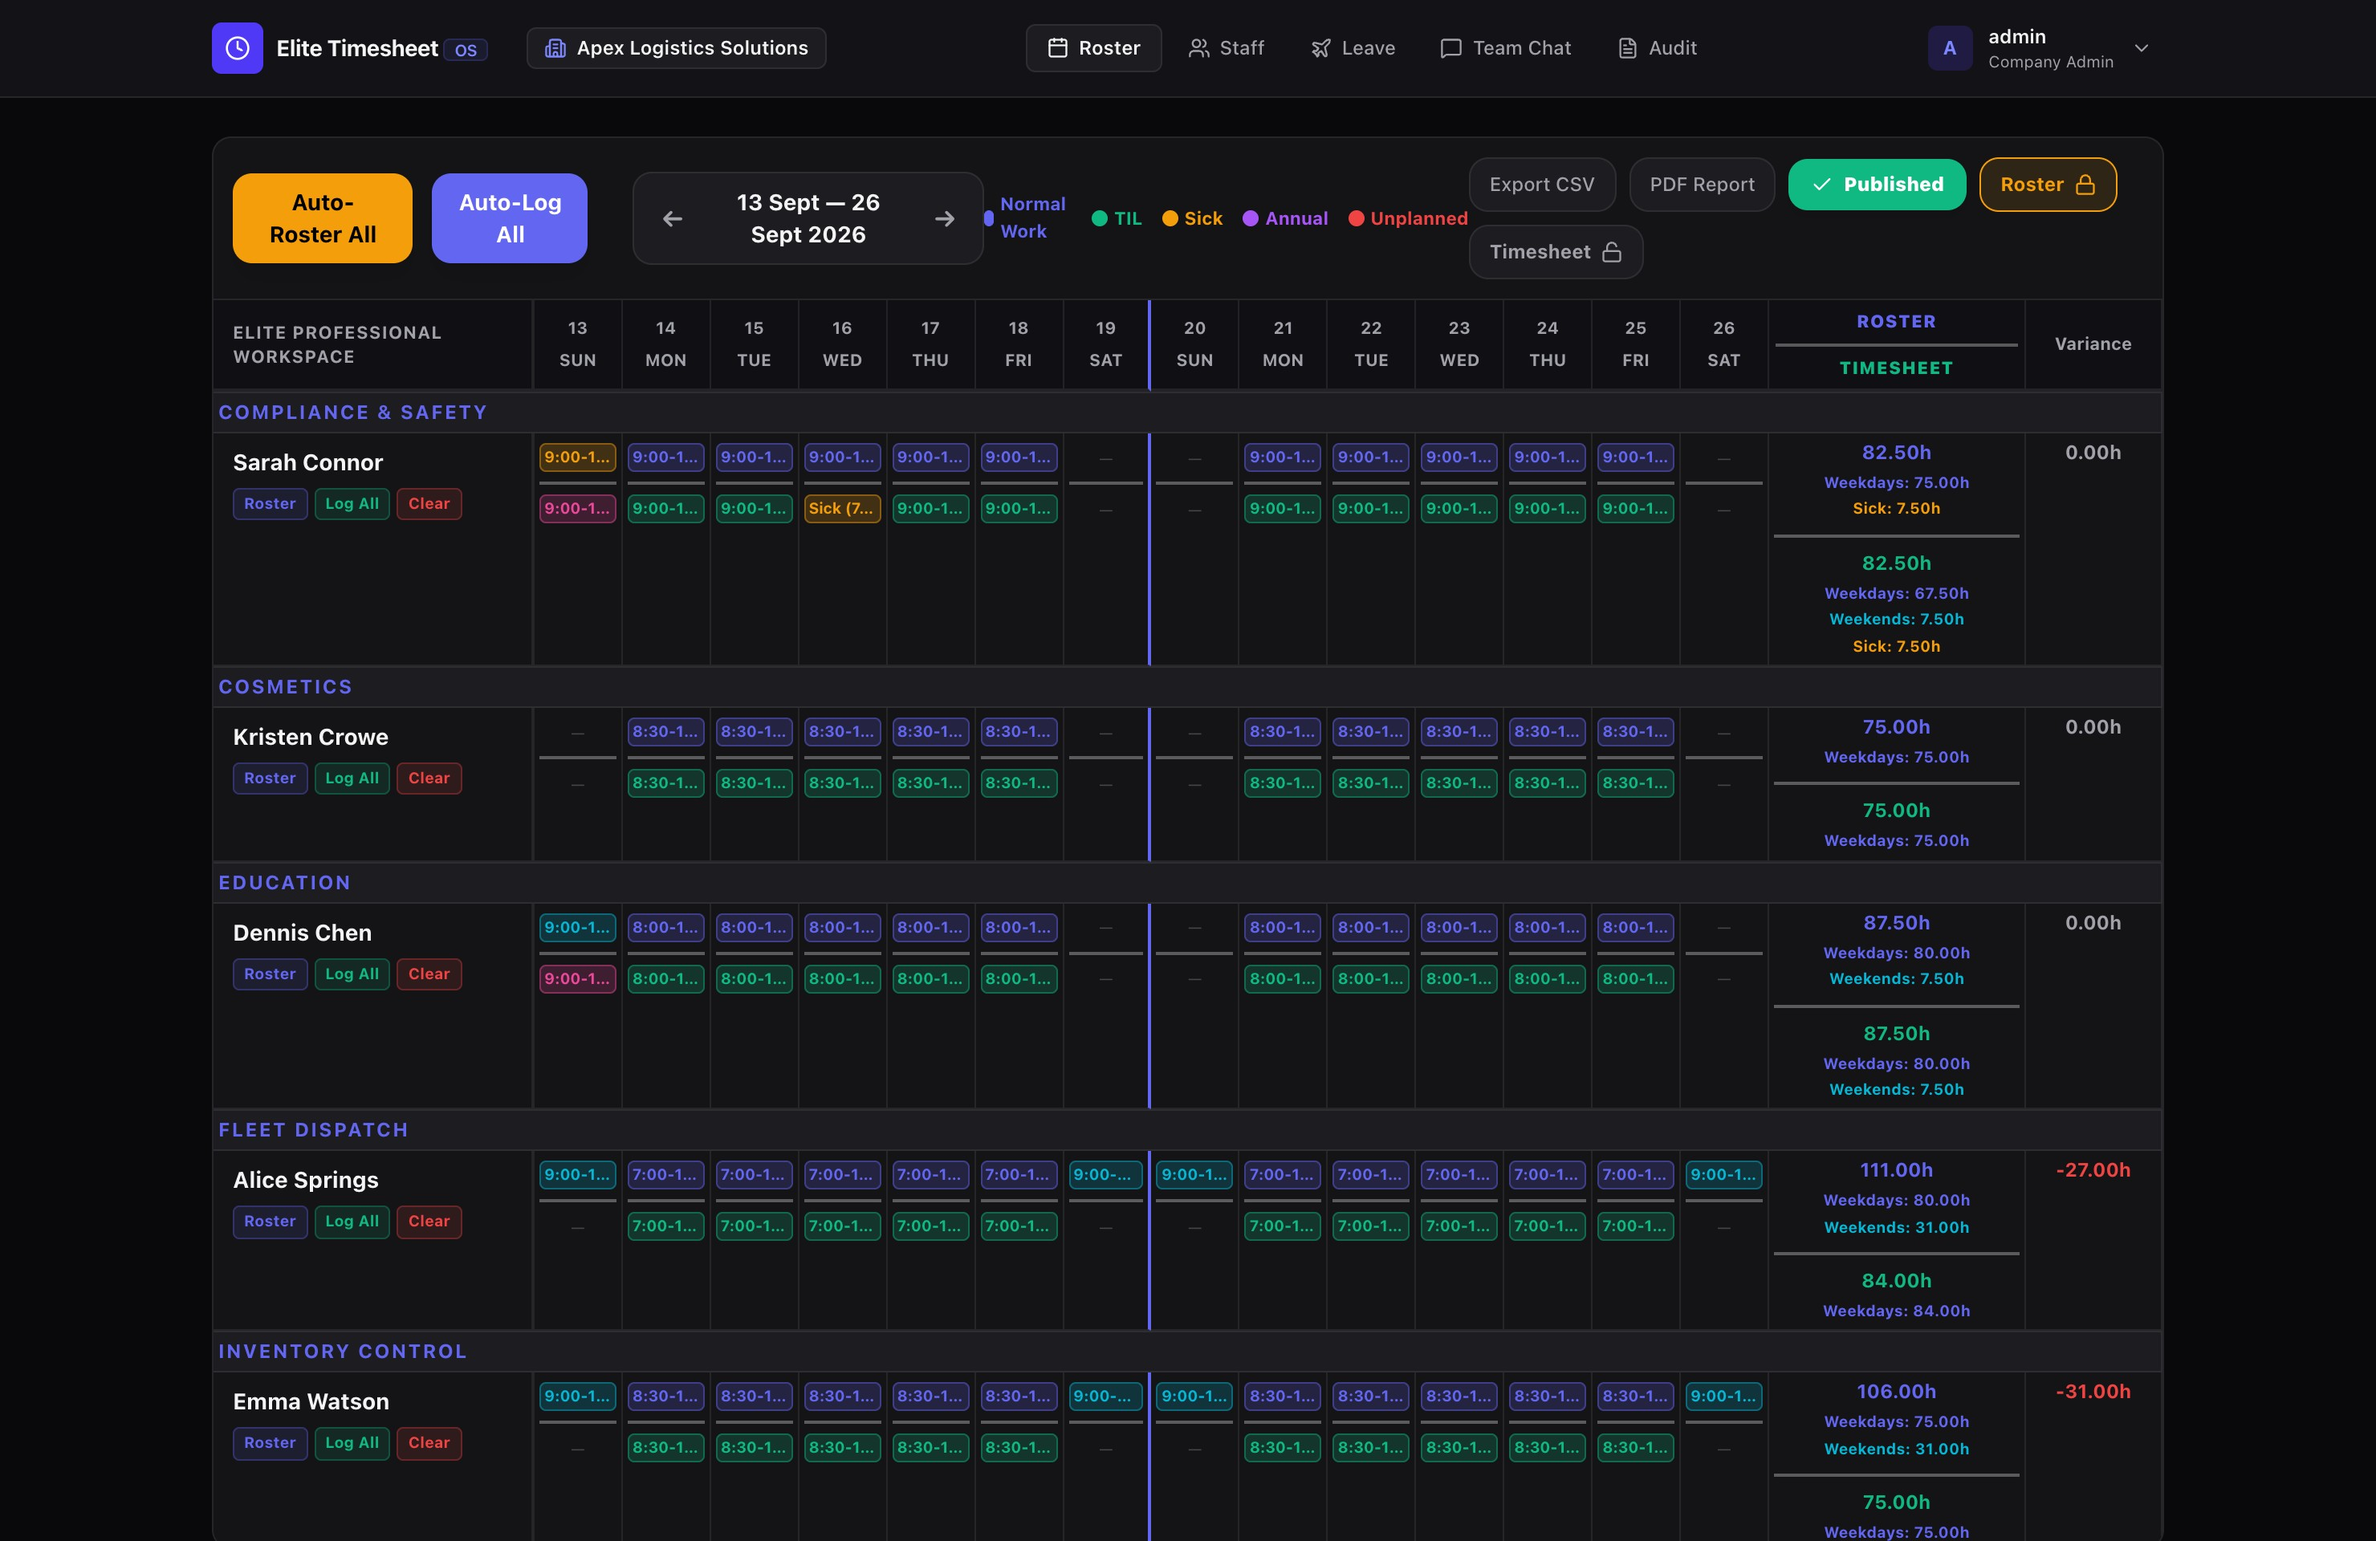
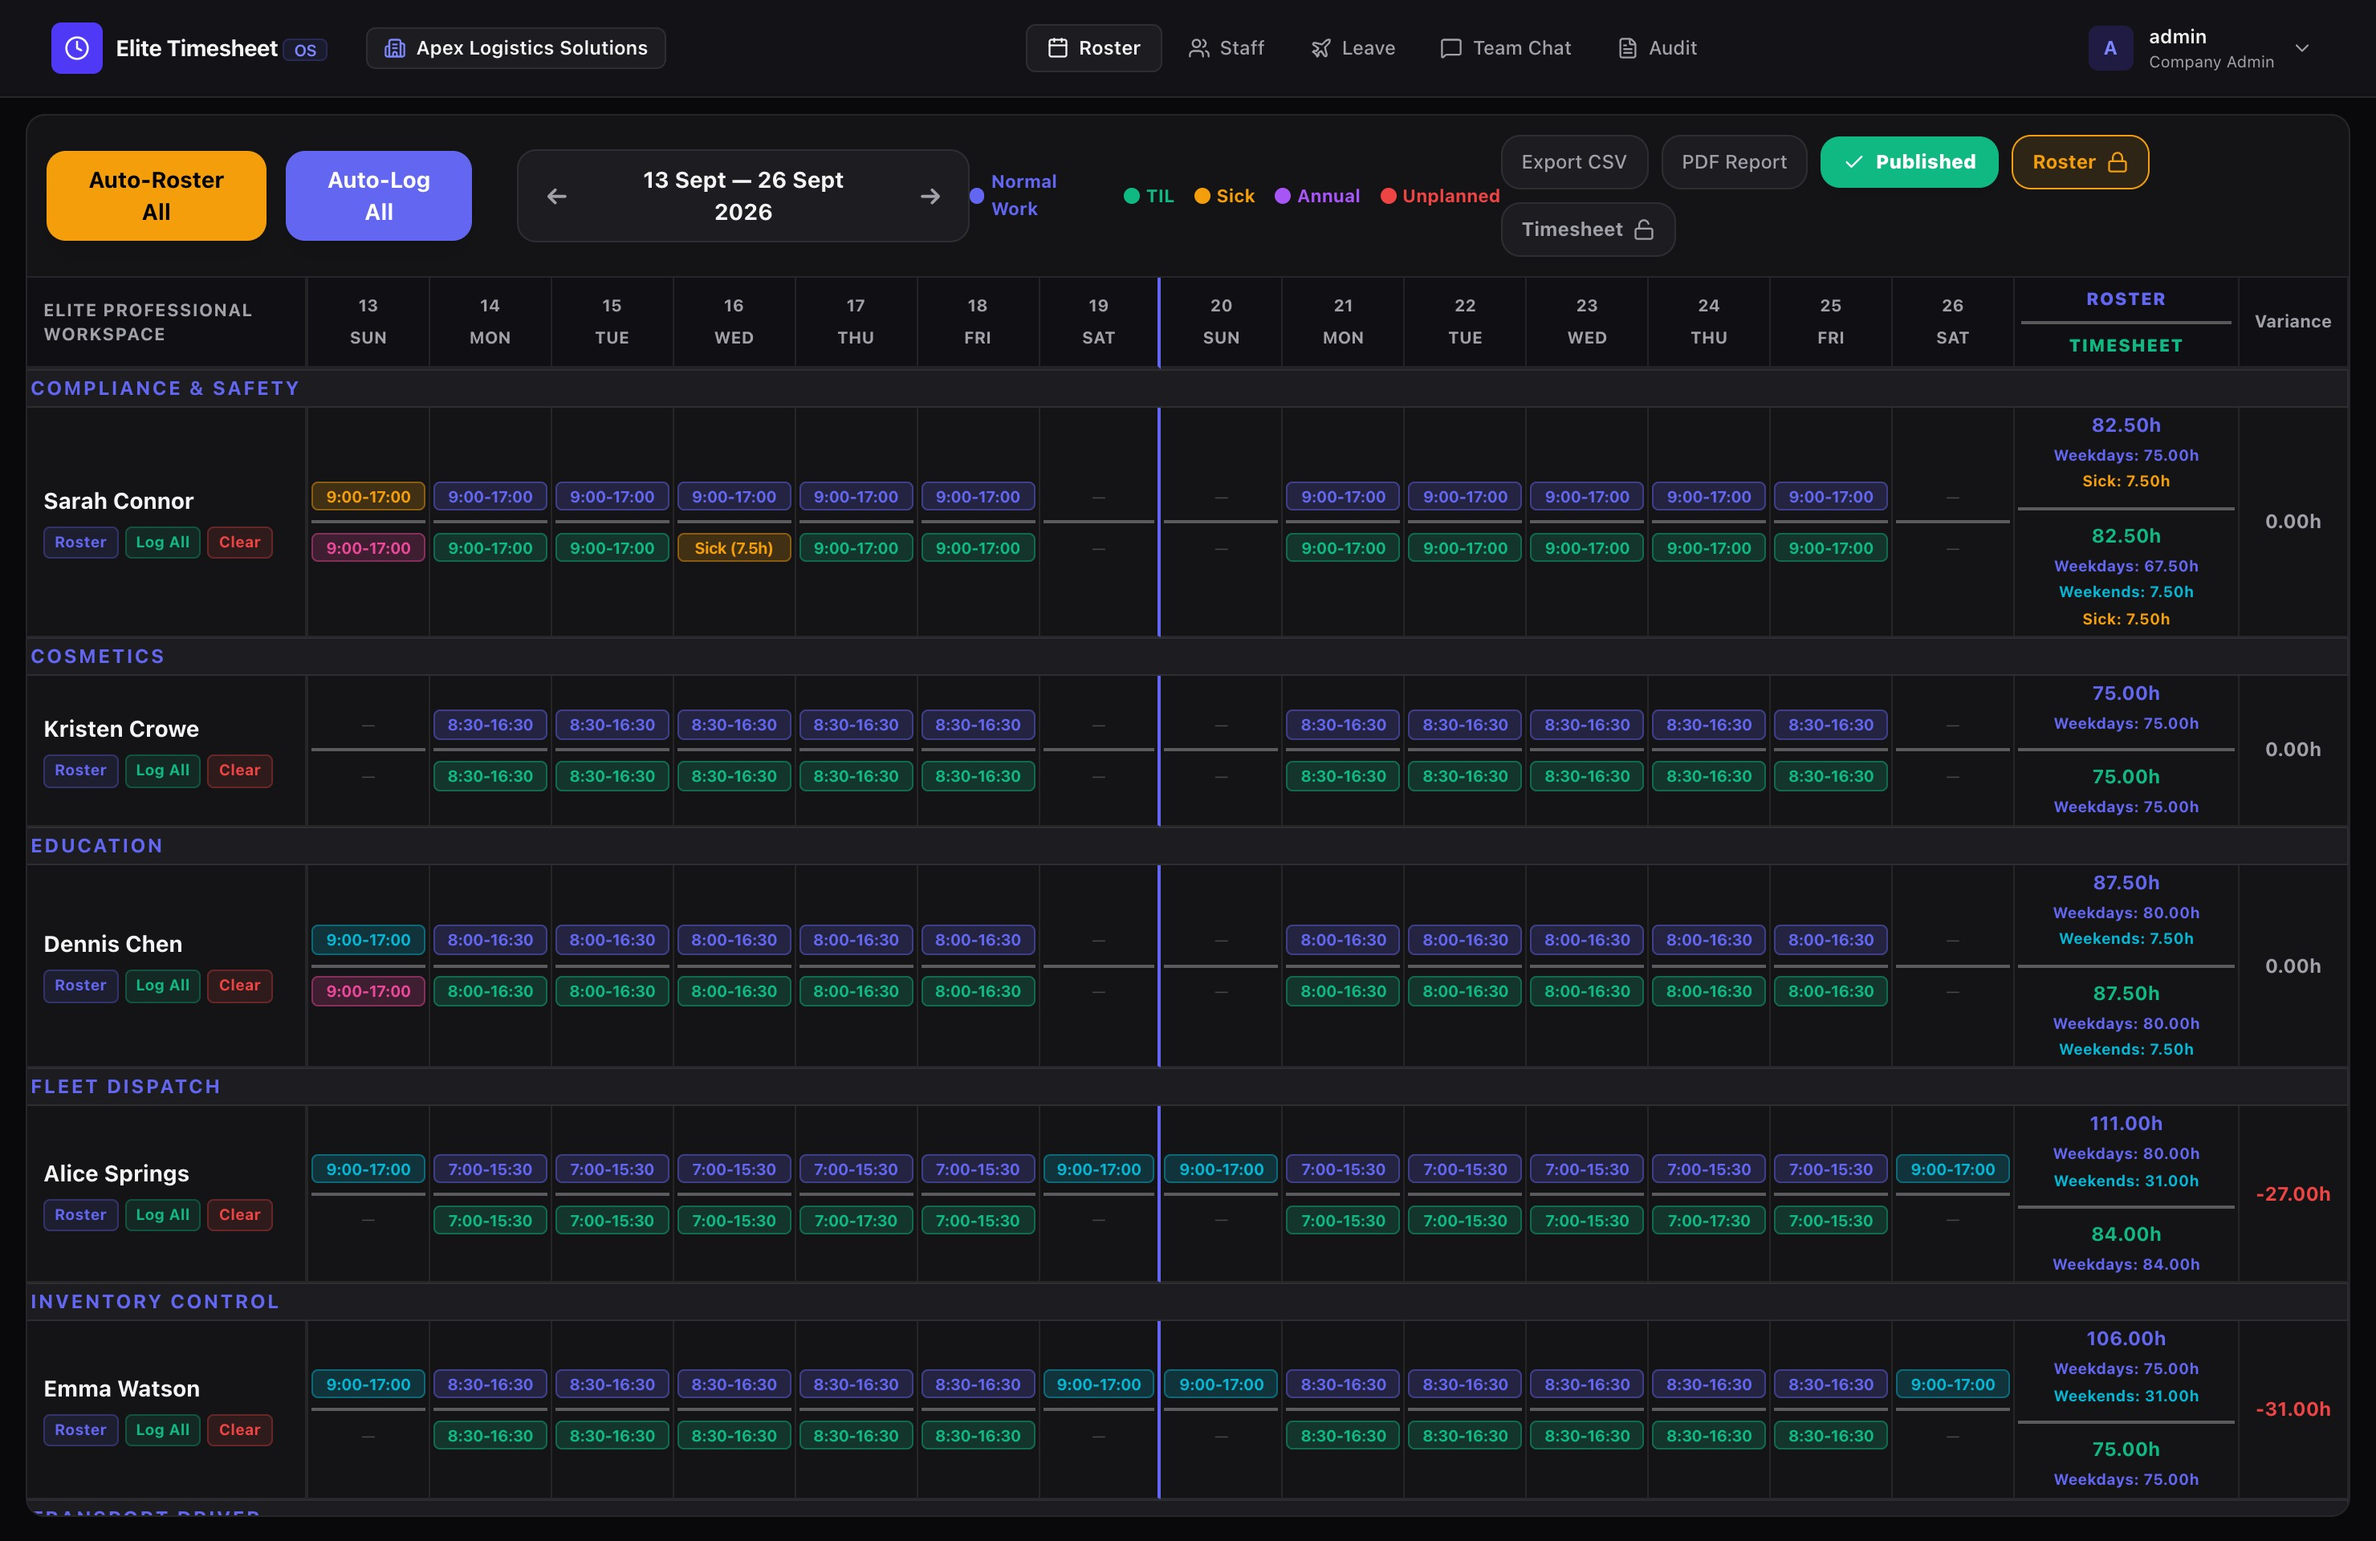
feat(ui): expand roster and timesheet to full screen width with un-truncated shift badges

diff --git a/frontend/src/pages/Roster.tsx b/frontend/src/pages/Roster.tsx
@@ -448,7 +448,7 @@ export default function Roster() {
   };
 
   return (
-    <div className="flex flex-col h-[calc(100vh-80px)] overflow-hidden relative">
+    <div className="flex flex-col h-[calc(100vh-82px)] sm:h-[calc(100vh-86px)] overflow-hidden relative w-full">
       {/* Toast Notification Popup */}
       {toastMessage && (
         <div className="fixed top-20 right-6 z-50 bg-[var(--primary)] text-white font-bold text-xs px-4 py-3 rounded-2xl shadow-xl flex items-center gap-2">
@@ -594,14 +594,14 @@ export default function Roster() {
                   </div>
                 </th>
               ))}
-              <th className="w-[160px] text-center text-xs font-bold py-1.5 px-2">
+              <th className="w-[140px] text-center text-xs font-bold py-1.5 px-2">
                 <div className="flex flex-col items-center">
                   <span className="text-[var(--primary)] text-[0.68rem] uppercase font-black tracking-wider">Roster</span>
                   <div className="w-full border-t-2 border-[var(--divider-split)] my-1.5 shadow-xs" />
                   <span className="text-[var(--success)] text-[0.68rem] uppercase font-black tracking-wider">Timesheet</span>
                 </div>
               </th>
-              <th className="w-[85px] text-center text-[var(--muted)] text-xs font-bold py-2">Variance</th>
+              <th className="w-[68px] text-center text-[var(--muted)] text-xs font-bold py-2">Variance</th>
             </tr>
           </thead>
           <tbody>
@@ -729,7 +729,7 @@ export default function Roster() {
                             onClick={() => handleCellClick(emp.id, emp.full_name, iso)} 
                             key={i} 
                             title="Click to view & edit day shift / timesheet"
-                            className={`text-center align-middle cursor-pointer p-1 hover:bg-[var(--glass-4)] transition-colors ${i === 6 ? '!border-r-2 !border-r-[var(--primary)]' : ''}`}
+                            className={`text-center align-middle cursor-pointer p-0.5 hover:bg-[var(--glass-4)] transition-colors ${i === 6 ? '!border-r-2 !border-r-[var(--primary)]' : ''}`}
                           >
                             <div className="flex flex-col h-full min-h-[52px] justify-between">
                               {/* Roster Section (Top) */}
@@ -744,7 +744,7 @@ export default function Roster() {
                                       <div 
                                         key={idx} 
                                         title={s.notes ? `Roster Note: ${s.notes}` : `Roster: ${s.segment_type} (${s.roster_in || ''}-${s.roster_out || ''})`} 
-                                        className={`text-[0.6rem] font-bold px-0.5 py-0.5 rounded border leading-tight w-full truncate text-center tracking-tight ${colorStyle}`}
+                                        className={`text-[0.62rem] font-bold px-0.5 py-0.5 rounded border leading-tight w-full truncate text-center tracking-tighter ${colorStyle}`}
                                       >
                                         {timeDisplay}
                                       </div>
@@ -771,7 +771,7 @@ export default function Roster() {
                                       <div 
                                         key={idx} 
                                         title={s.notes ? `Actual Note: ${s.notes}` : `Actual: ${segType}${s.is_unplanned ? ' (Unplanned)' : ''} (${s.actual_in || ''}-${s.actual_out || ''})`} 
-                                        className={`text-[0.6rem] font-bold px-0.5 py-0.5 rounded border leading-tight w-full truncate flex items-center justify-center gap-0.5 tracking-tight ${colorStyle}`}
+                                        className={`text-[0.62rem] font-bold px-0.5 py-0.5 rounded border leading-tight w-full truncate flex items-center justify-center gap-0.5 tracking-tighter ${colorStyle}`}
                                       >
                                         {s.is_unplanned && <span className="text-[0.55rem] font-black text-[#ef4444] bg-[#ef4444]/20 px-0.5 rounded mr-0.5 shrink-0">U</span>}
                                         <span className="truncate">{timeDisplay}</span>

diff --git a/frontend/src/components/Layout.tsx b/frontend/src/components/Layout.tsx
@@ -148,6 +148,7 @@ export default function Layout() {
   const role = user?.role || 'Employee';
   const isManagerOrAdmin = ['Admin', 'Company Admin', 'Platform Admin', 'Manager'].includes(role);
   const isPlatformAdmin = role === 'Platform Admin';
+  const isFluid = location.pathname === '/roster' || location.pathname === '/' || location.pathname === '/portal';
 
   const isActive = (path: string) => {
     if (path === '/roster' && (location.pathname === '/' || location.pathname === '/roster')) return true;
@@ -158,7 +159,7 @@ export default function Layout() {
     <div className="min-h-screen flex flex-col bg-[var(--bg)] text-[var(--text)]">
       {/* Top Navigation Bar */}
       <header className="sticky top-0 z-30 border-b border-[var(--border)] bg-[var(--panel)]/95 backdrop-blur-md">
-        <div className="max-w-7xl mx-auto px-4 sm:px-6 lg:px-8 h-15 flex items-center justify-between">
+        <div className={`w-full mx-auto px-4 sm:px-6 lg:px-8 h-15 flex items-center justify-between ${isFluid ? 'max-w-none' : 'max-w-7xl'}`}>
           {/* Left: Brand + Organisation Context */}
           <div className="flex items-center gap-6">
             <Link to={role === 'Employee' ? '/portal' : '/roster'} className="flex items-center gap-2 group">
@@ -368,7 +369,7 @@ export default function Layout() {
       </header>
 
       {/* Main Content Area */}
-      <main className="flex-1 w-full max-w-7xl mx-auto px-4 sm:px-6 lg:px-8 py-6">
+      <main className={`flex-1 w-full mx-auto ${isFluid ? 'max-w-none px-2 sm:px-3 lg:px-4 py-2 sm:py-2.5' : 'max-w-7xl px-4 sm:px-6 lg:px-8 py-6'}`}>
         <Outlet />
       </main>
 

diff --git a/frontend/src/index.css b/frontend/src/index.css
@@ -68,9 +68,9 @@ body {
 
 .ag-table { width: 100%; border-collapse: separate; border-spacing: 0; table-layout: fixed; min-width: 1200px; }
 .ag-table th { background: var(--table-header); padding: 6px 4px; font-size: 0.68rem; font-weight: 700; color: var(--muted); border-bottom: 2px solid var(--border); border-right: 1px solid var(--border); position: sticky; top: 0; z-index: 10; cursor: default; }
-.ag-table th.name-col { width: 200px; text-align: left; position: sticky; left: 0; z-index: 20; border-right: 2px solid var(--border); padding-left: 12px; }
-.ag-table td { padding: 4px 3px; border-bottom: 1px solid var(--border); border-right: 1px solid var(--border); vertical-align: top; transition: background 0.15s; }
-.ag-table td.name-col { position: sticky; left: 0; background: var(--panel); z-index: 15; border-right: 2px solid var(--border); font-weight: 700; font-size: 0.82rem; padding: 8px 12px; }
+.ag-table th.name-col { width: 175px; text-align: left; position: sticky; left: 0; z-index: 20; border-right: 2px solid var(--border); padding-left: 10px; }
+.ag-table td { padding: 3px 2px; border-bottom: 1px solid var(--border); border-right: 1px solid var(--border); vertical-align: middle; transition: background 0.15s; }
+.ag-table td.name-col { position: sticky; left: 0; background: var(--panel); z-index: 15; border-right: 2px solid var(--border); font-weight: 700; font-size: 0.82rem; padding: 6px 10px; }
 
 /* Custom Scrollbar */
 ::-webkit-scrollbar { width: 8px; height: 8px; }
